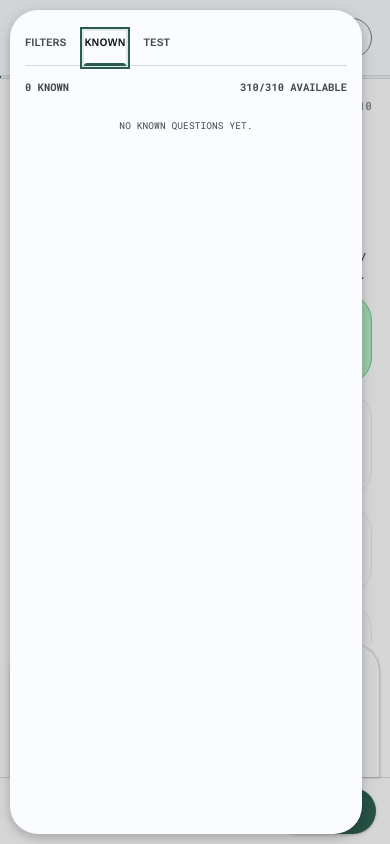
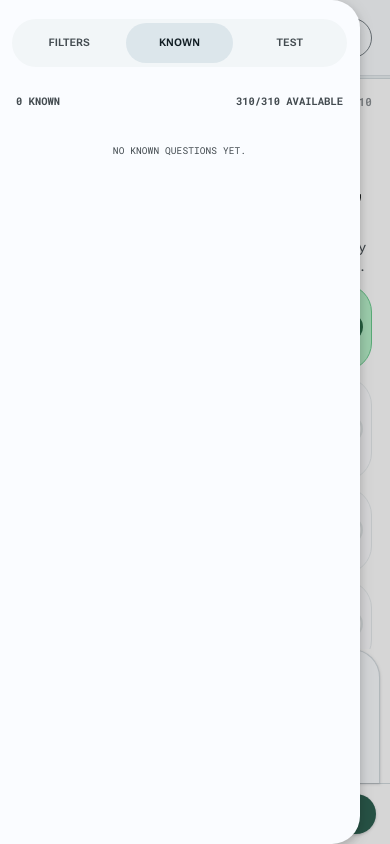
Refine mobile drawer for MD3

diff --git a/styles.css b/styles.css
@@ -2020,16 +2020,17 @@ button {
     display: block;
     position: fixed;
     z-index: 30;
-    top: calc(10px + env(safe-area-inset-top));
-    left: 10px;
-    bottom: calc(10px + env(safe-area-inset-bottom));
-    width: min(360px, calc(100vw - 34px));
-    padding: 20px 14px calc(18px + env(safe-area-inset-bottom));
+    top: 0;
+    left: 0;
+    bottom: 0;
+    width: min(360px, calc(100vw - 30px));
+    padding: calc(18px + env(safe-area-inset-top)) 12px calc(18px + env(safe-area-inset-bottom));
     border: 1px solid transparent;
-    border-radius: var(--md-sys-shape-corner-extra-large);
+    border-left: 0;
+    border-radius: 0 var(--md-sys-shape-corner-extra-large) var(--md-sys-shape-corner-extra-large) 0;
     background: var(--md-sys-color-surface-container-low);
-    box-shadow: var(--md-elevation-2);
-    transform: translateX(calc(-100% - 14px));
+    box-shadow: var(--md-elevation-3);
+    transform: translateX(-100%);
     opacity: 0;
     pointer-events: none;
     transition: transform var(--md-sys-motion-duration-long) var(--md-sys-motion-easing-emphasized),
@@ -2037,6 +2038,14 @@ button {
   }
 
   .bp-app.filters-open .bp-pills-bar {
+    top: 0;
+    left: 0;
+    bottom: 0;
+    width: min(360px, calc(100vw - 30px));
+    padding: calc(18px + env(safe-area-inset-top)) 12px calc(18px + env(safe-area-inset-bottom));
+    border-left: 0;
+    border-radius: 0 var(--md-sys-shape-corner-extra-large) var(--md-sys-shape-corner-extra-large) 0;
+    box-shadow: var(--md-elevation-3);
     transform: translateX(0);
     opacity: 1;
     pointer-events: auto;
@@ -2045,25 +2054,114 @@ button {
   .bp-pills-bar .pills {
     height: 100%;
     flex-direction: column;
-    gap: 8px;
+    gap: 4px;
     overflow-x: hidden;
     overflow-y: auto;
     padding: 0;
   }
 
+  .panel-tabs {
+    min-height: 48px;
+    gap: 4px;
+    padding: 4px;
+    margin: 0 0 14px;
+    border: 0;
+    border-radius: var(--md-sys-shape-corner-full);
+    background: var(--md-sys-color-surface-container);
+  }
+
+  .panel-tabs button {
+    flex: 1 1 0;
+    min-height: 40px;
+    padding: 0 10px;
+    border-radius: var(--md-sys-shape-corner-full);
+    color: var(--bp-ink-soft);
+    transition: background var(--md-sys-motion-duration-short) var(--md-sys-motion-easing-standard),
+      color var(--md-sys-motion-duration-short) var(--md-sys-motion-easing-standard),
+      box-shadow var(--md-sys-motion-duration-short) var(--md-sys-motion-easing-standard);
+  }
+
+  .panel-tabs button:hover {
+    background: var(--md-sys-color-on-surface-state-layer);
+  }
+
+  .panel-tabs button[aria-selected="true"] {
+    background: var(--md-sys-color-secondary-container);
+    color: var(--md-sys-color-on-secondary-container);
+  }
+
+  .panel-tabs button[aria-selected="true"]::after {
+    display: none;
+  }
+
   .cat-pill {
     width: 100%;
-    padding: 9px 11px 10px;
+    min-height: 56px;
+    padding: 8px 16px;
+    border: 0;
+    border-radius: var(--md-sys-shape-corner-full);
     white-space: normal;
+    grid-template-columns: 0 minmax(0, 1fr);
+  }
+
+  .cat-pill[aria-pressed="true"] {
+    grid-template-columns: 20px minmax(0, 1fr);
+    gap: 12px;
+    background: var(--md-sys-color-secondary-container);
+  }
+
+  .cat-pill .cat-check {
+    width: 20px;
+    height: 20px;
   }
 
   .cat-pill .de {
-    font-size: 10.5px;
+    font-size: 12px;
     line-height: 1.15;
+    text-transform: none;
   }
 
   .cat-pill .en {
     font-size: 9.5px;
+    text-transform: uppercase;
+  }
+
+  .known-summary {
+    min-height: 40px;
+    align-items: center;
+    margin: 0 4px 8px;
+  }
+
+  .known-list {
+    gap: 4px;
+  }
+
+  .known-item {
+    min-height: 64px;
+    padding: 10px 8px 10px 16px;
+    border: 0;
+    border-radius: var(--md-sys-shape-corner-large);
+    background: transparent;
+  }
+
+  .known-item:hover {
+    background: var(--md-sys-color-on-surface-state-layer);
+  }
+
+  .known-item button {
+    width: 40px;
+    height: 40px;
+    border-radius: var(--md-sys-shape-corner-full);
+    background: transparent;
+    transition: background var(--md-sys-motion-duration-short) var(--md-sys-motion-easing-standard);
+  }
+
+  .known-item button:hover {
+    background: var(--md-sys-color-error-state-layer);
+  }
+
+  .test-config {
+    padding: 6px 4px;
   }
 
   .bp-card {